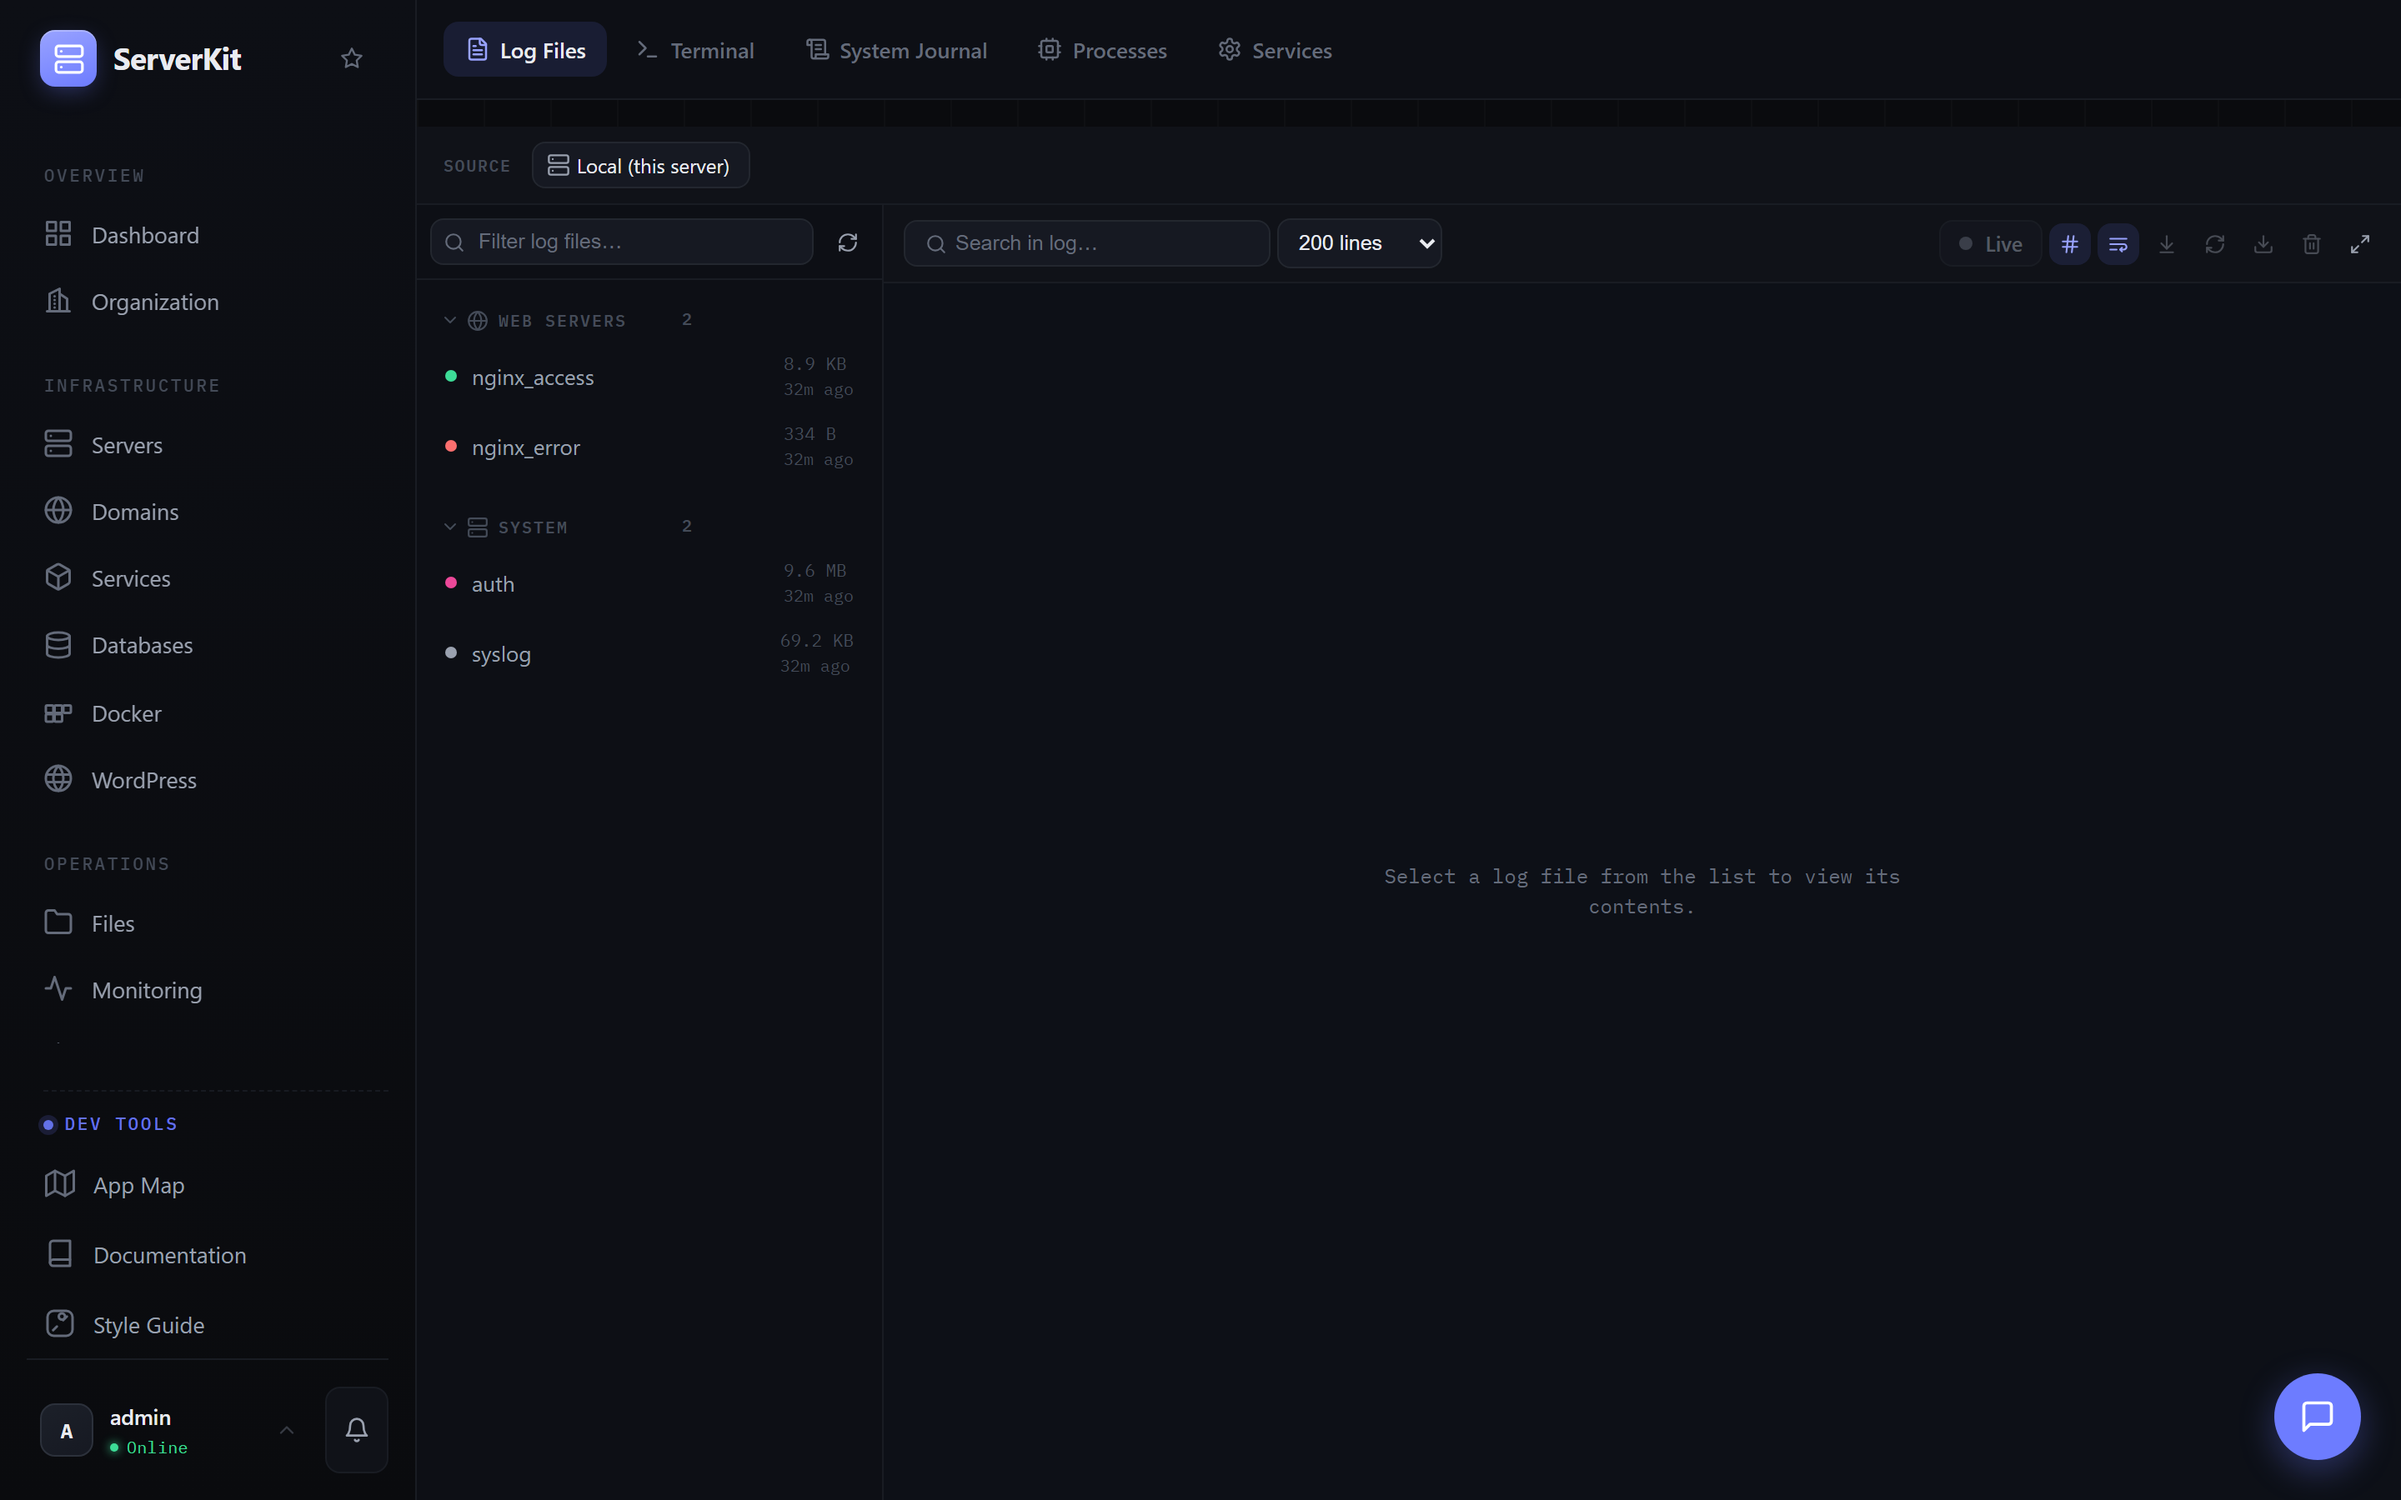
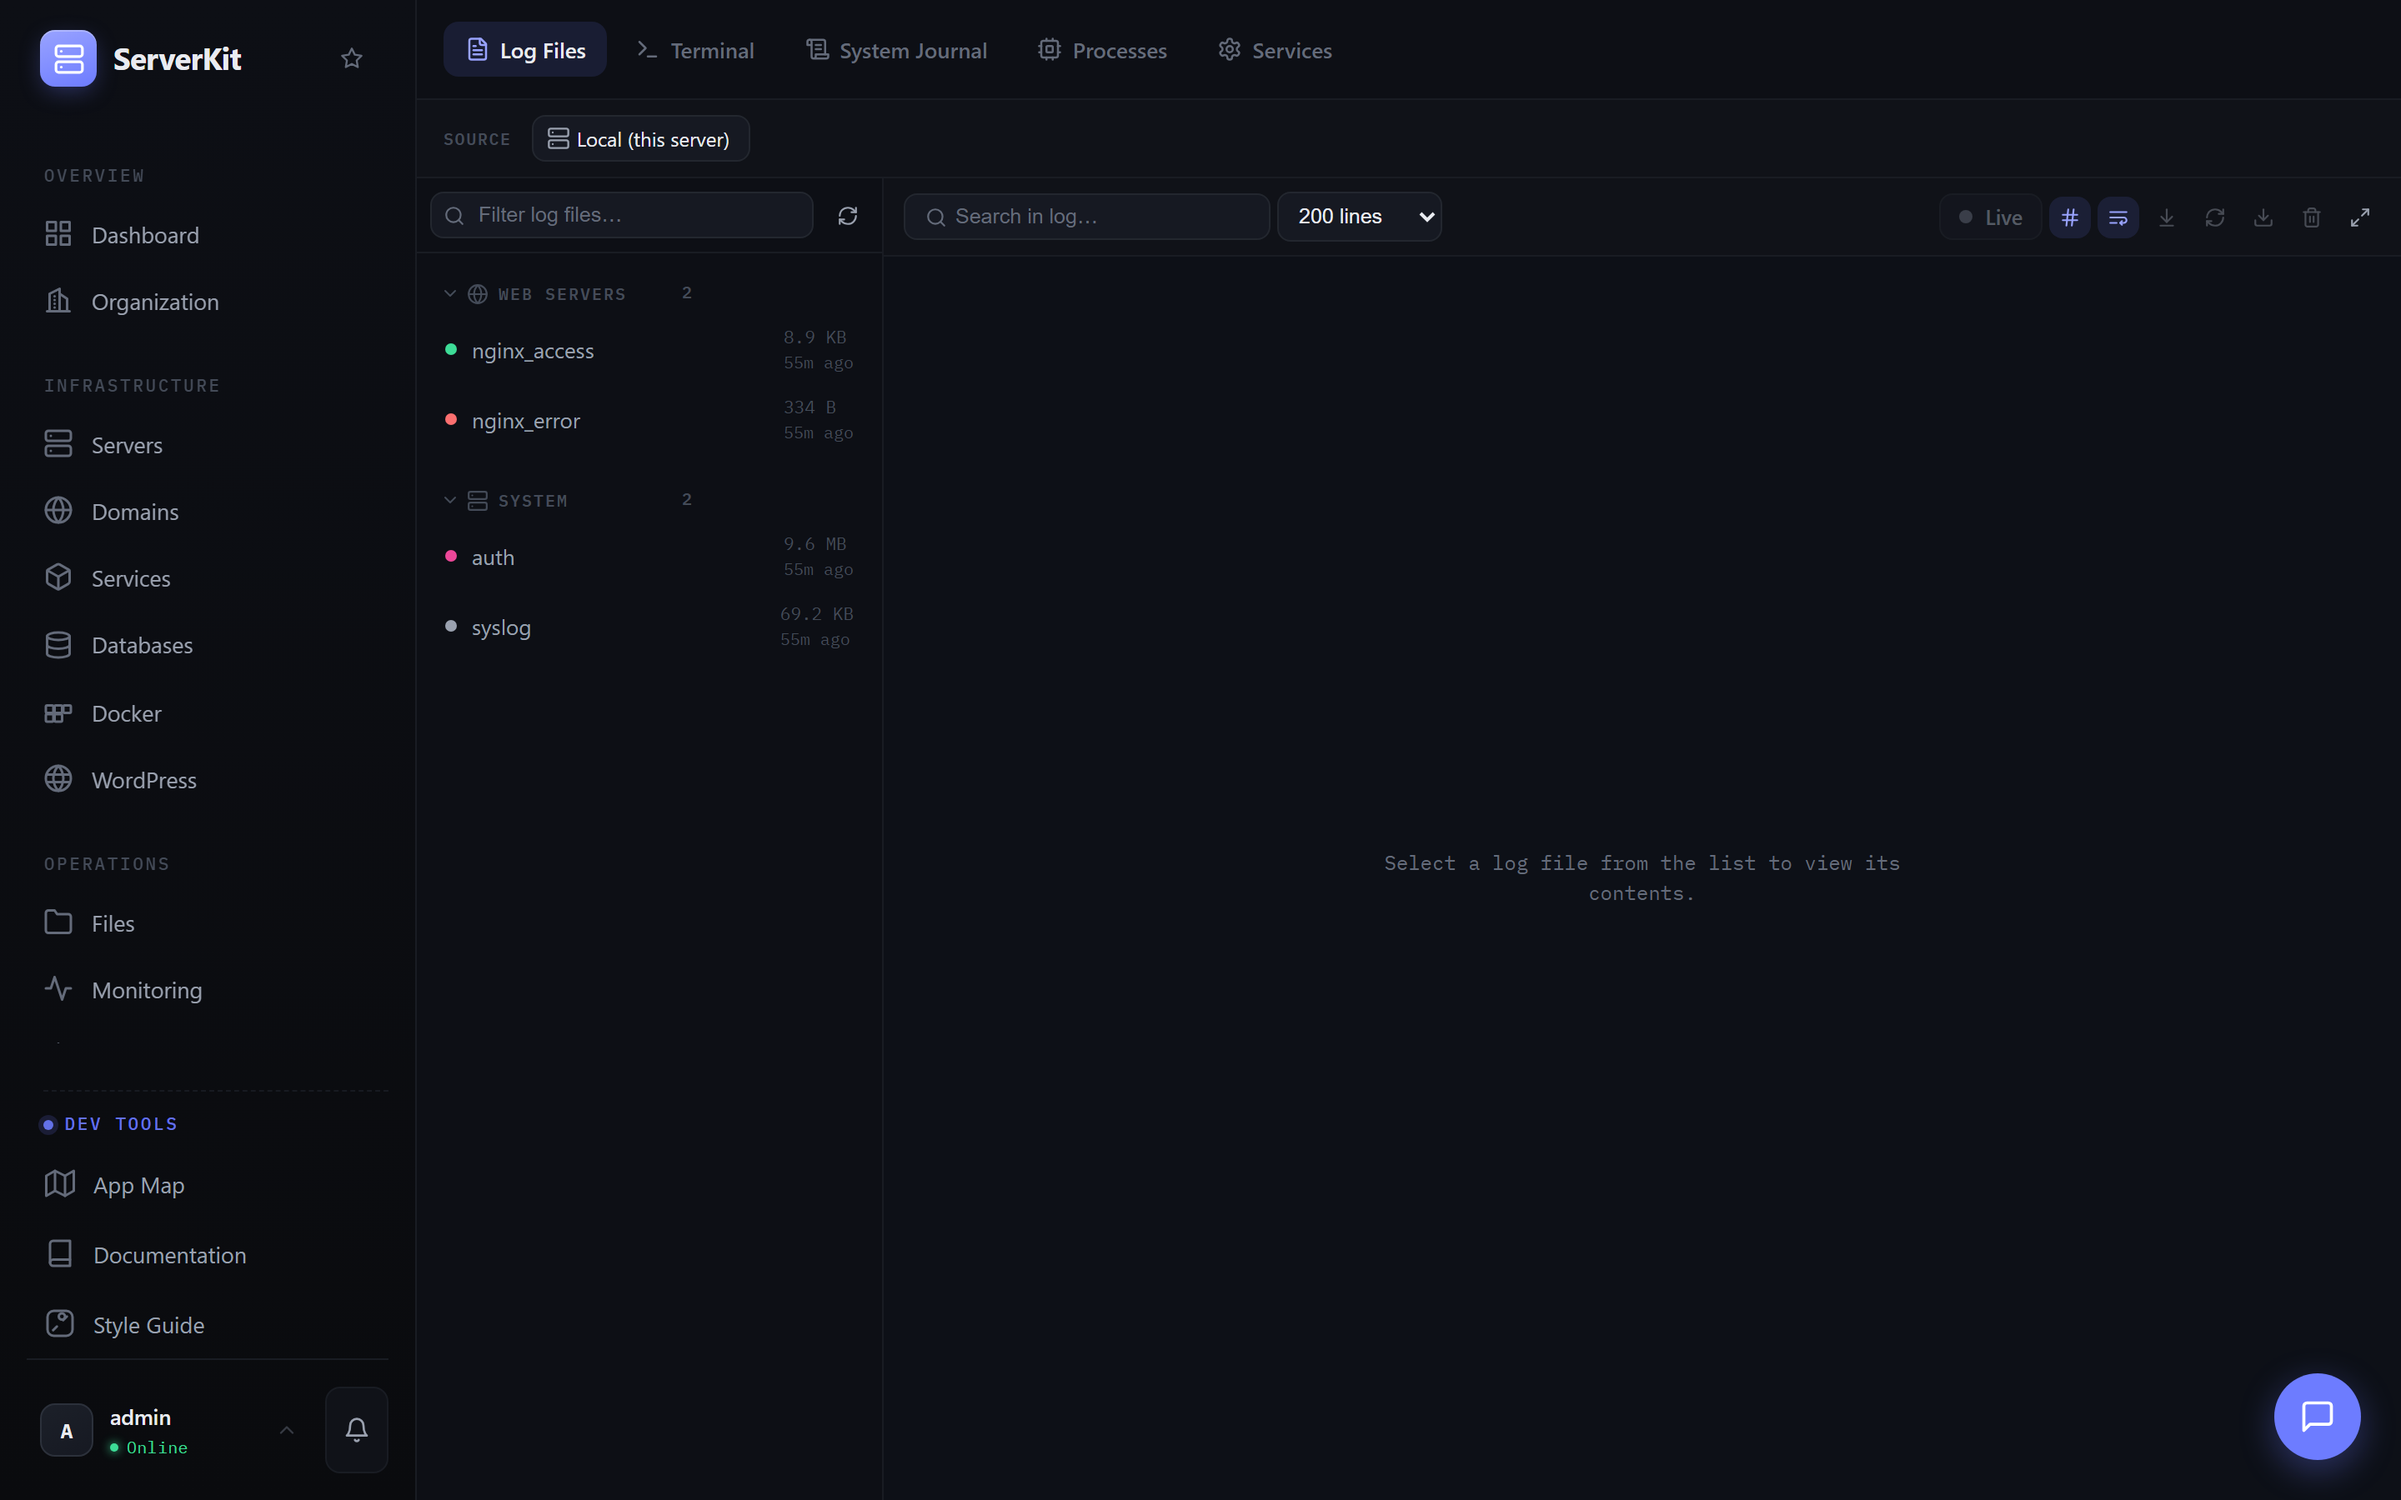
fix(ui): rename the page shell off `.sk-page` (name collision)
components/PageSkeleton.jsx already owned `.sk-page` for its loading
archetypes, including `gap: $space-4`. The new shell reused the name, so every
page built on PageLayout inherited a 16px flex gap between the top bar and the
content — invisible on padded pages, but on Terminal/Logs it showed as a band
of page background under the bar, which is exactly the "weird space" reported.

The shell is `.sk-pageshell` now; the skeleton keeps `.sk-page`. The smoke test
gained a vgap assertion (content top must equal the bar's bottom edge), which
is what would have caught this in the first place.

diff --git a/frontend/src/styles/layout/_main-content.scss b/frontend/src/styles/layout/_main-content.scss
@@ -80,7 +80,7 @@
 // ============================================================
 // PAGE SHELL
 // The one frame every page gets, in two flavours:
-//   .sk-page      — a standalone page   (layouts/PageLayout.jsx)
+//   .sk-pageshell — a standalone page   (layouts/PageLayout.jsx)
 //   .sk-tabgroup  — a routed tab group  (layouts/TabGroupLayout.jsx)
 // Both are full-bleed so the top bar pins flush to the top of the content
 // region and the body scrolls beneath it. A page should never hand-roll this:
@@ -125,7 +125,10 @@
 }
 
 // Standalone pages (Cron Jobs, Settings, Documentation, …).
-.sk-page {
+// NOT `.sk-page` — components/PageSkeleton.jsx already owns that name for its
+// loading archetypes, and its `gap: 16px` leaked in as a band of page
+// background between the top bar and the content on every shell page.
+.sk-pageshell {
     @include page-shell;
 
     &__content {
@@ -133,7 +136,7 @@
 
         // `fill` bodies (terminals, consoles, trees) take the whole region and
         // manage their own scroll instead of riding the centered column.
-        > .sk-page__fill { flex: 1; min-height: 0; }
+        > .sk-pageshell__fill { flex: 1; min-height: 0; }
     }
 
     &__inner { @include page-shell-inner; }

diff --git a/frontend/src/layouts/PageLayout.jsx b/frontend/src/layouts/PageLayout.jsx
@@ -33,7 +33,7 @@ export default function PageLayout({
     children,
 }) {
     return (
-        <div className={cn('page-container page-container--full-bleed sk-page', className)}>
+        <div className={cn('page-container page-container--full-bleed sk-pageshell', className)}>
             <PageTopbar
                 className={topbarClassName}
                 icon={icon}
@@ -43,11 +43,11 @@ export default function PageLayout({
                 navLabel={navLabel}
                 actions={actions}
             />
-            <div className="sk-page__content">
+            <div className="sk-pageshell__content">
                 {fill ? (
-                    <div className={cn('sk-page__fill', contentClassName)}>{children}</div>
+                    <div className={cn('sk-pageshell__fill', contentClassName)}>{children}</div>
                 ) : (
-                    <div className={cn('sk-page__inner', contentClassName)}>{children}</div>
+                    <div className={cn('sk-pageshell__inner', contentClassName)}>{children}</div>
                 )}
             </div>
         </div>
